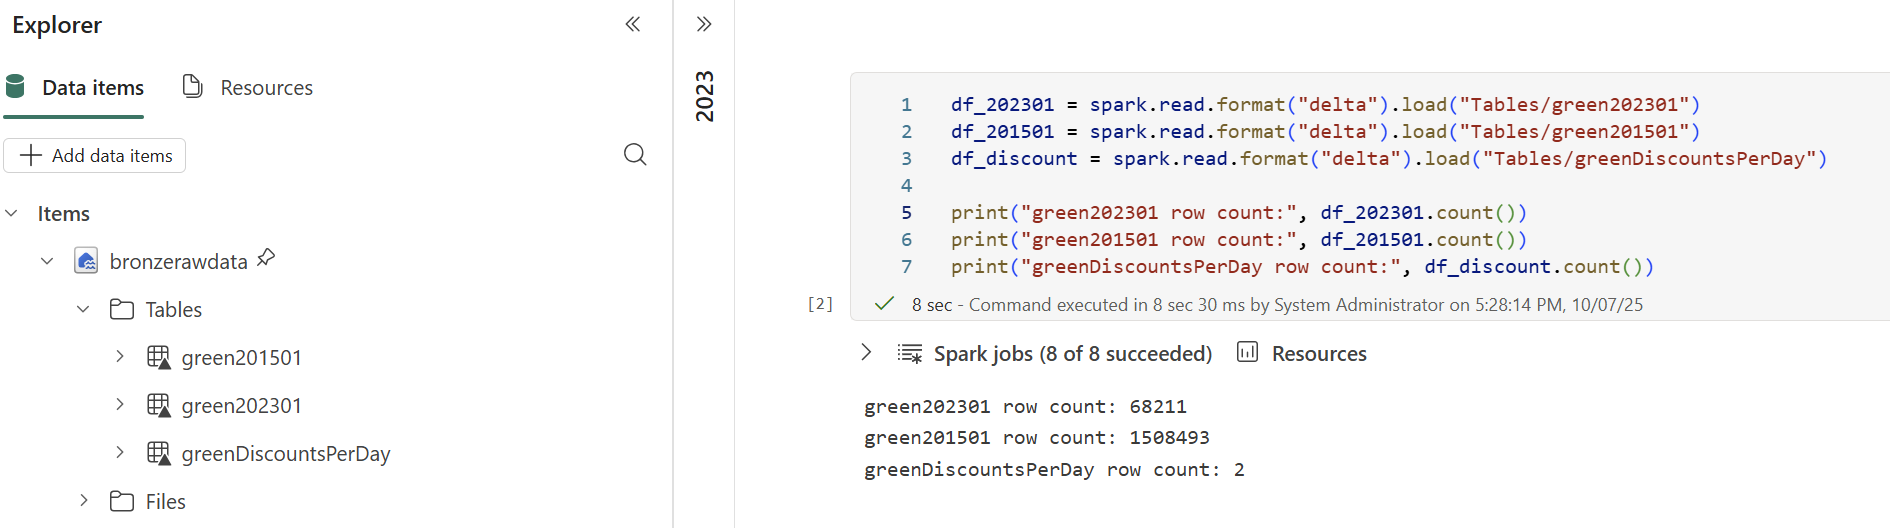
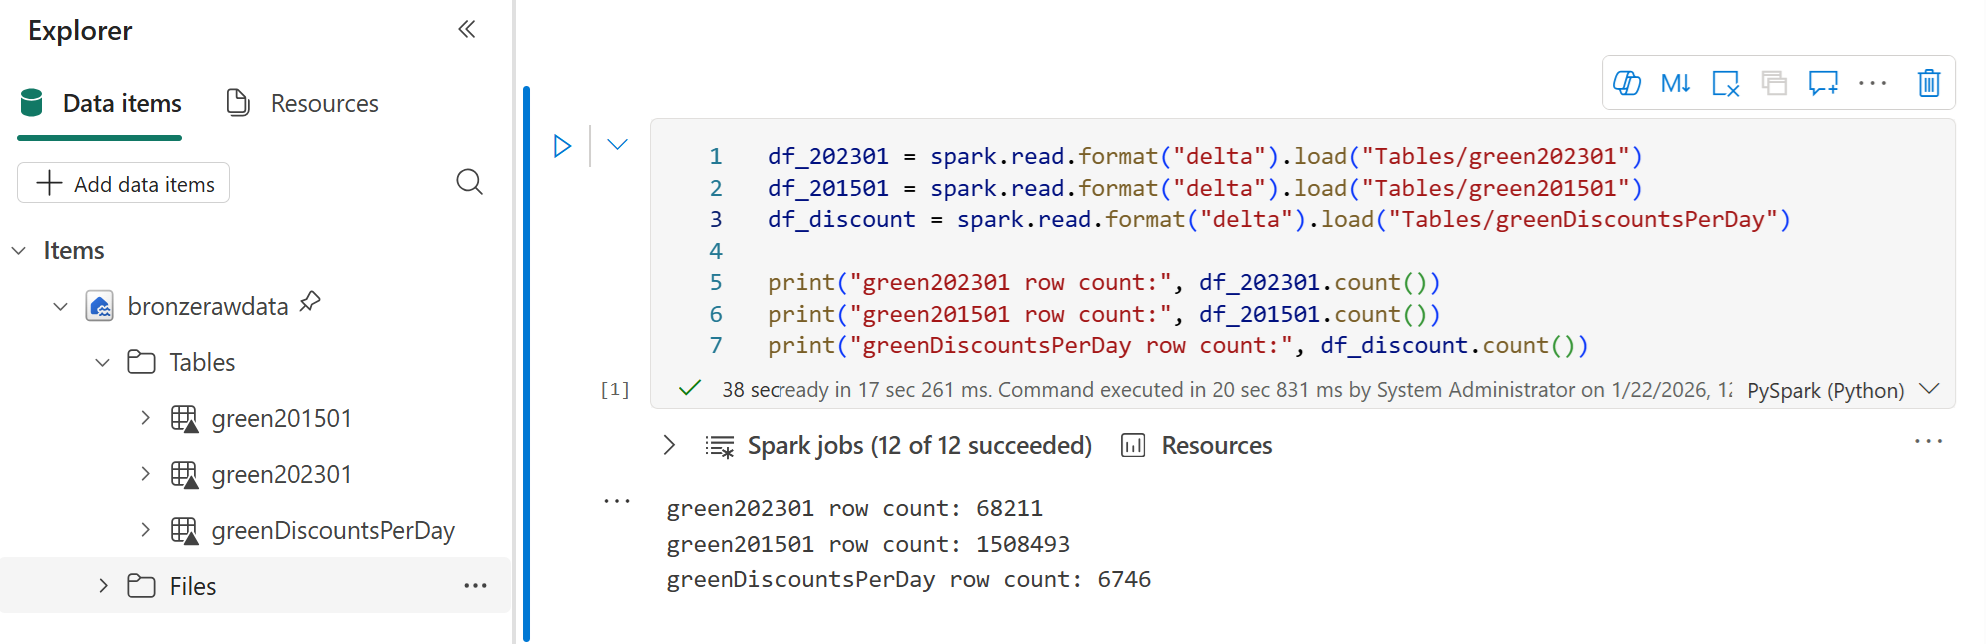
ch03 - update sucess. cr for unpivot

diff --git a/challenges/ch03/README.md b/challenges/ch03/README.md
@@ -50,7 +50,7 @@ In this challenge, you will load three files into three Delta tables in the [bro
 
 - Table **green201501** **exists** with **1 508 493** **rows**.
 - Table **green202301** **exists** with **68 211** **rows**.
-- Table **greenDiscountsPerDay** **exists** with **2 rows**.
+- Table **greenDiscountsPerDay** **exists** with **6 746 rows**.
 
 
 ![Picture](/images/ch03/ch03-success1.png)
